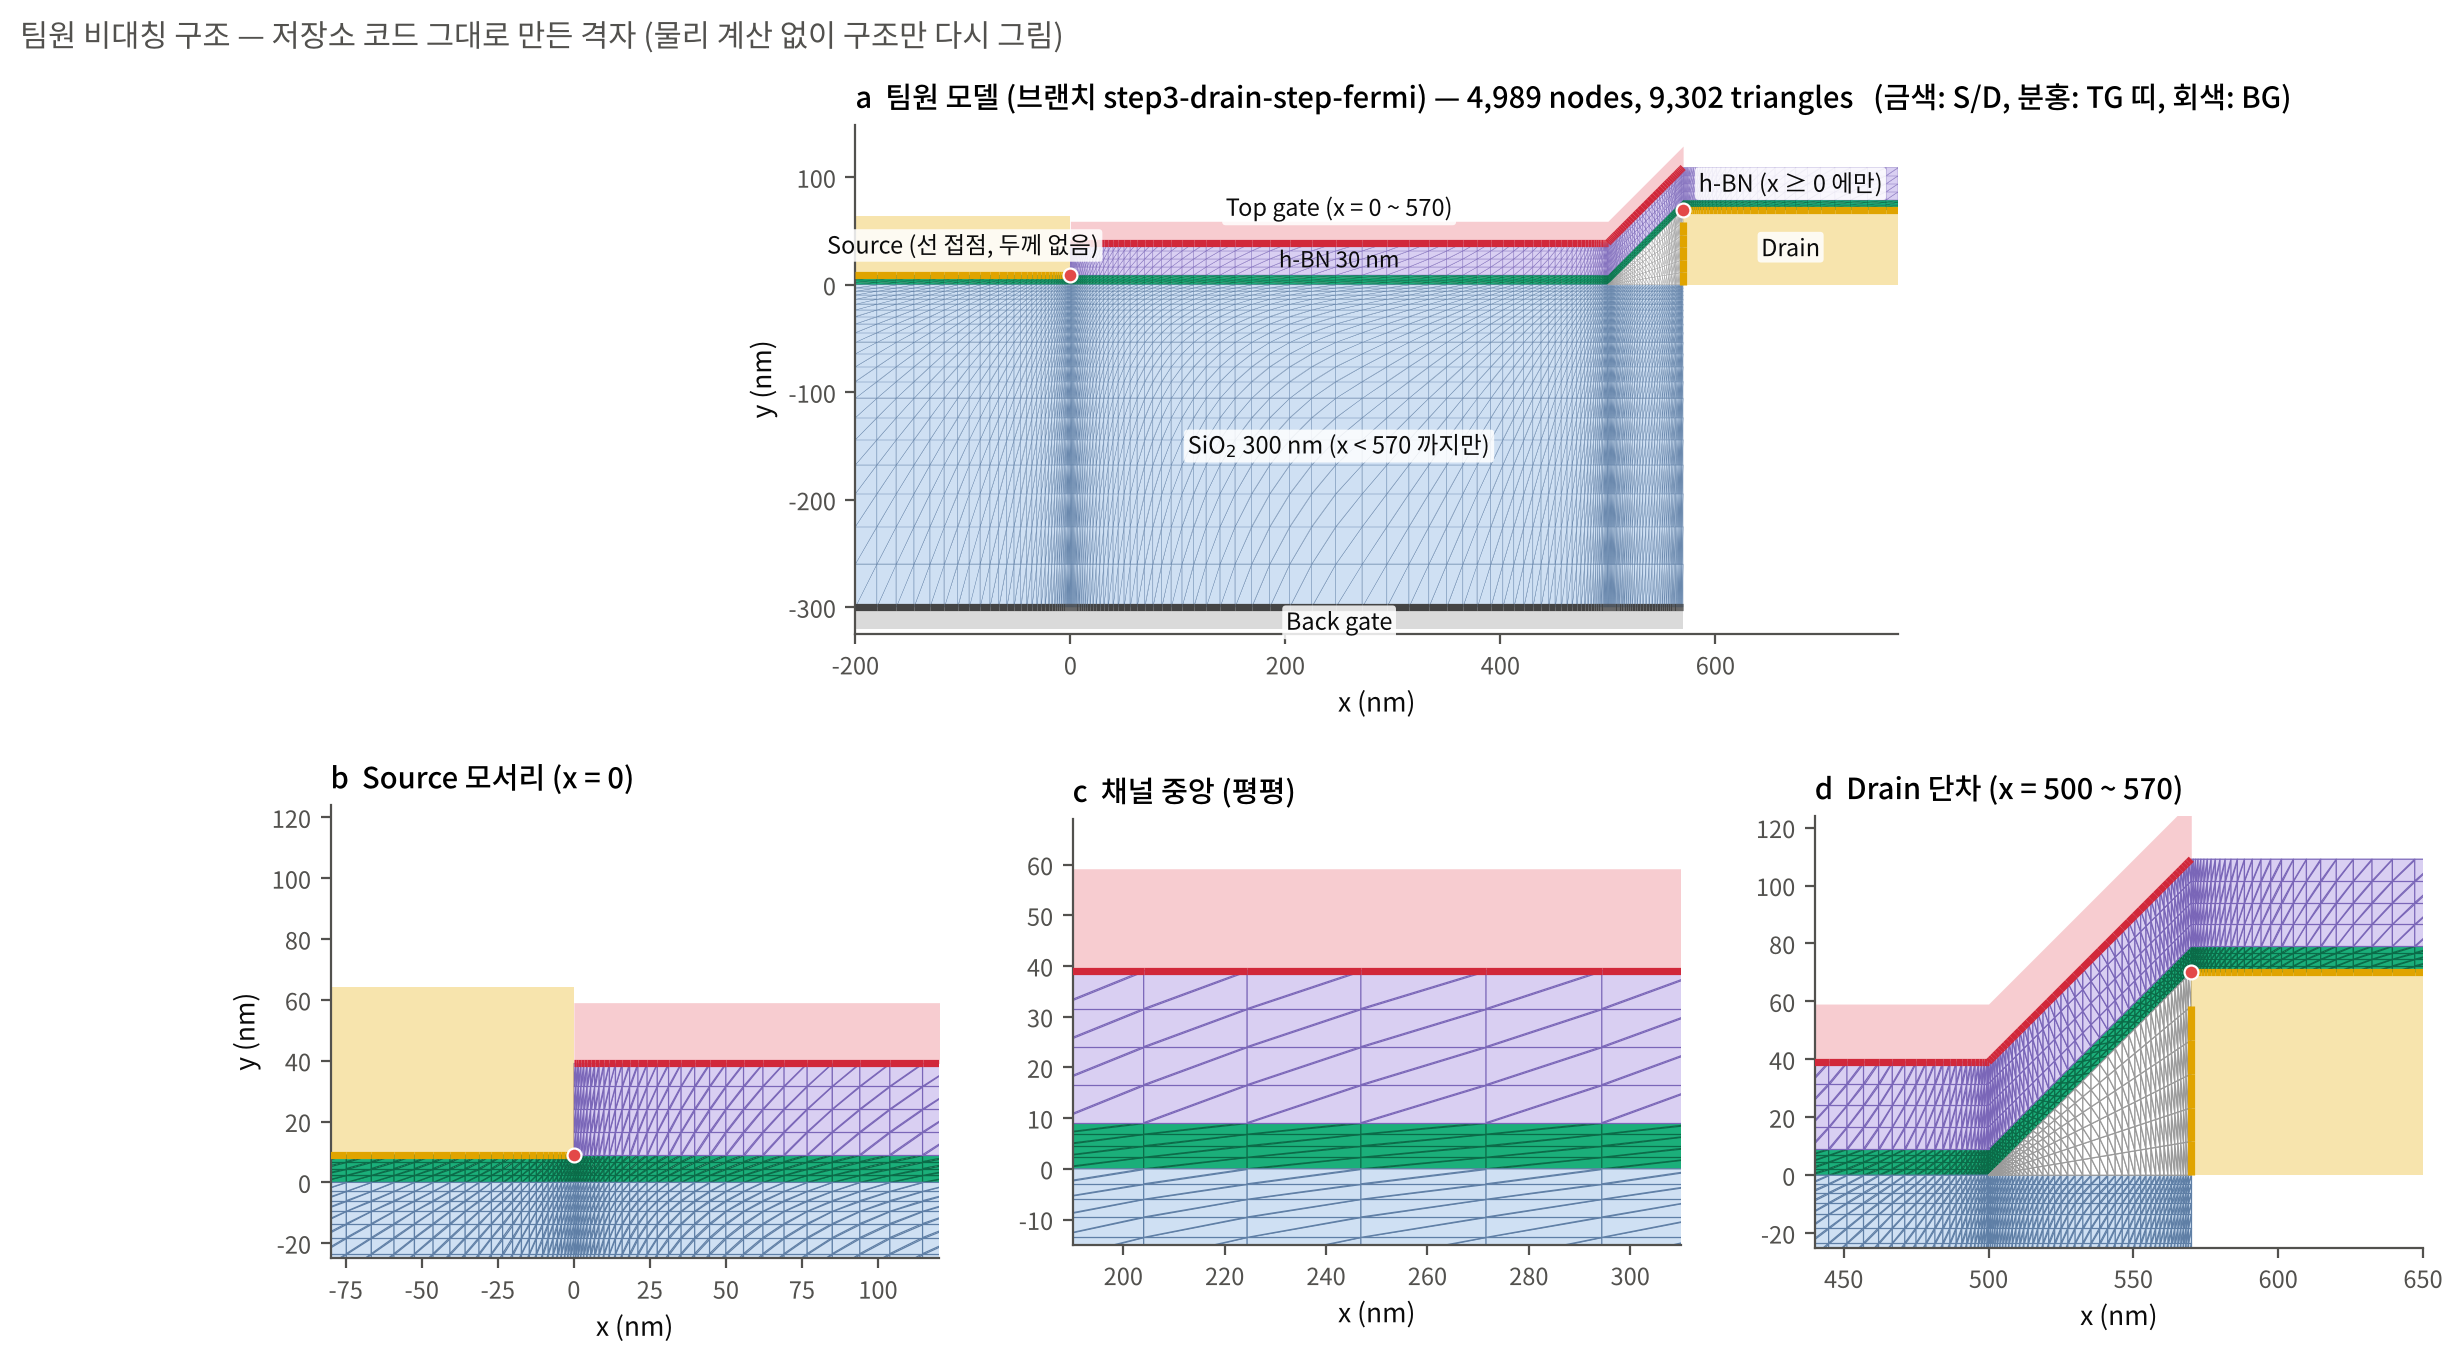
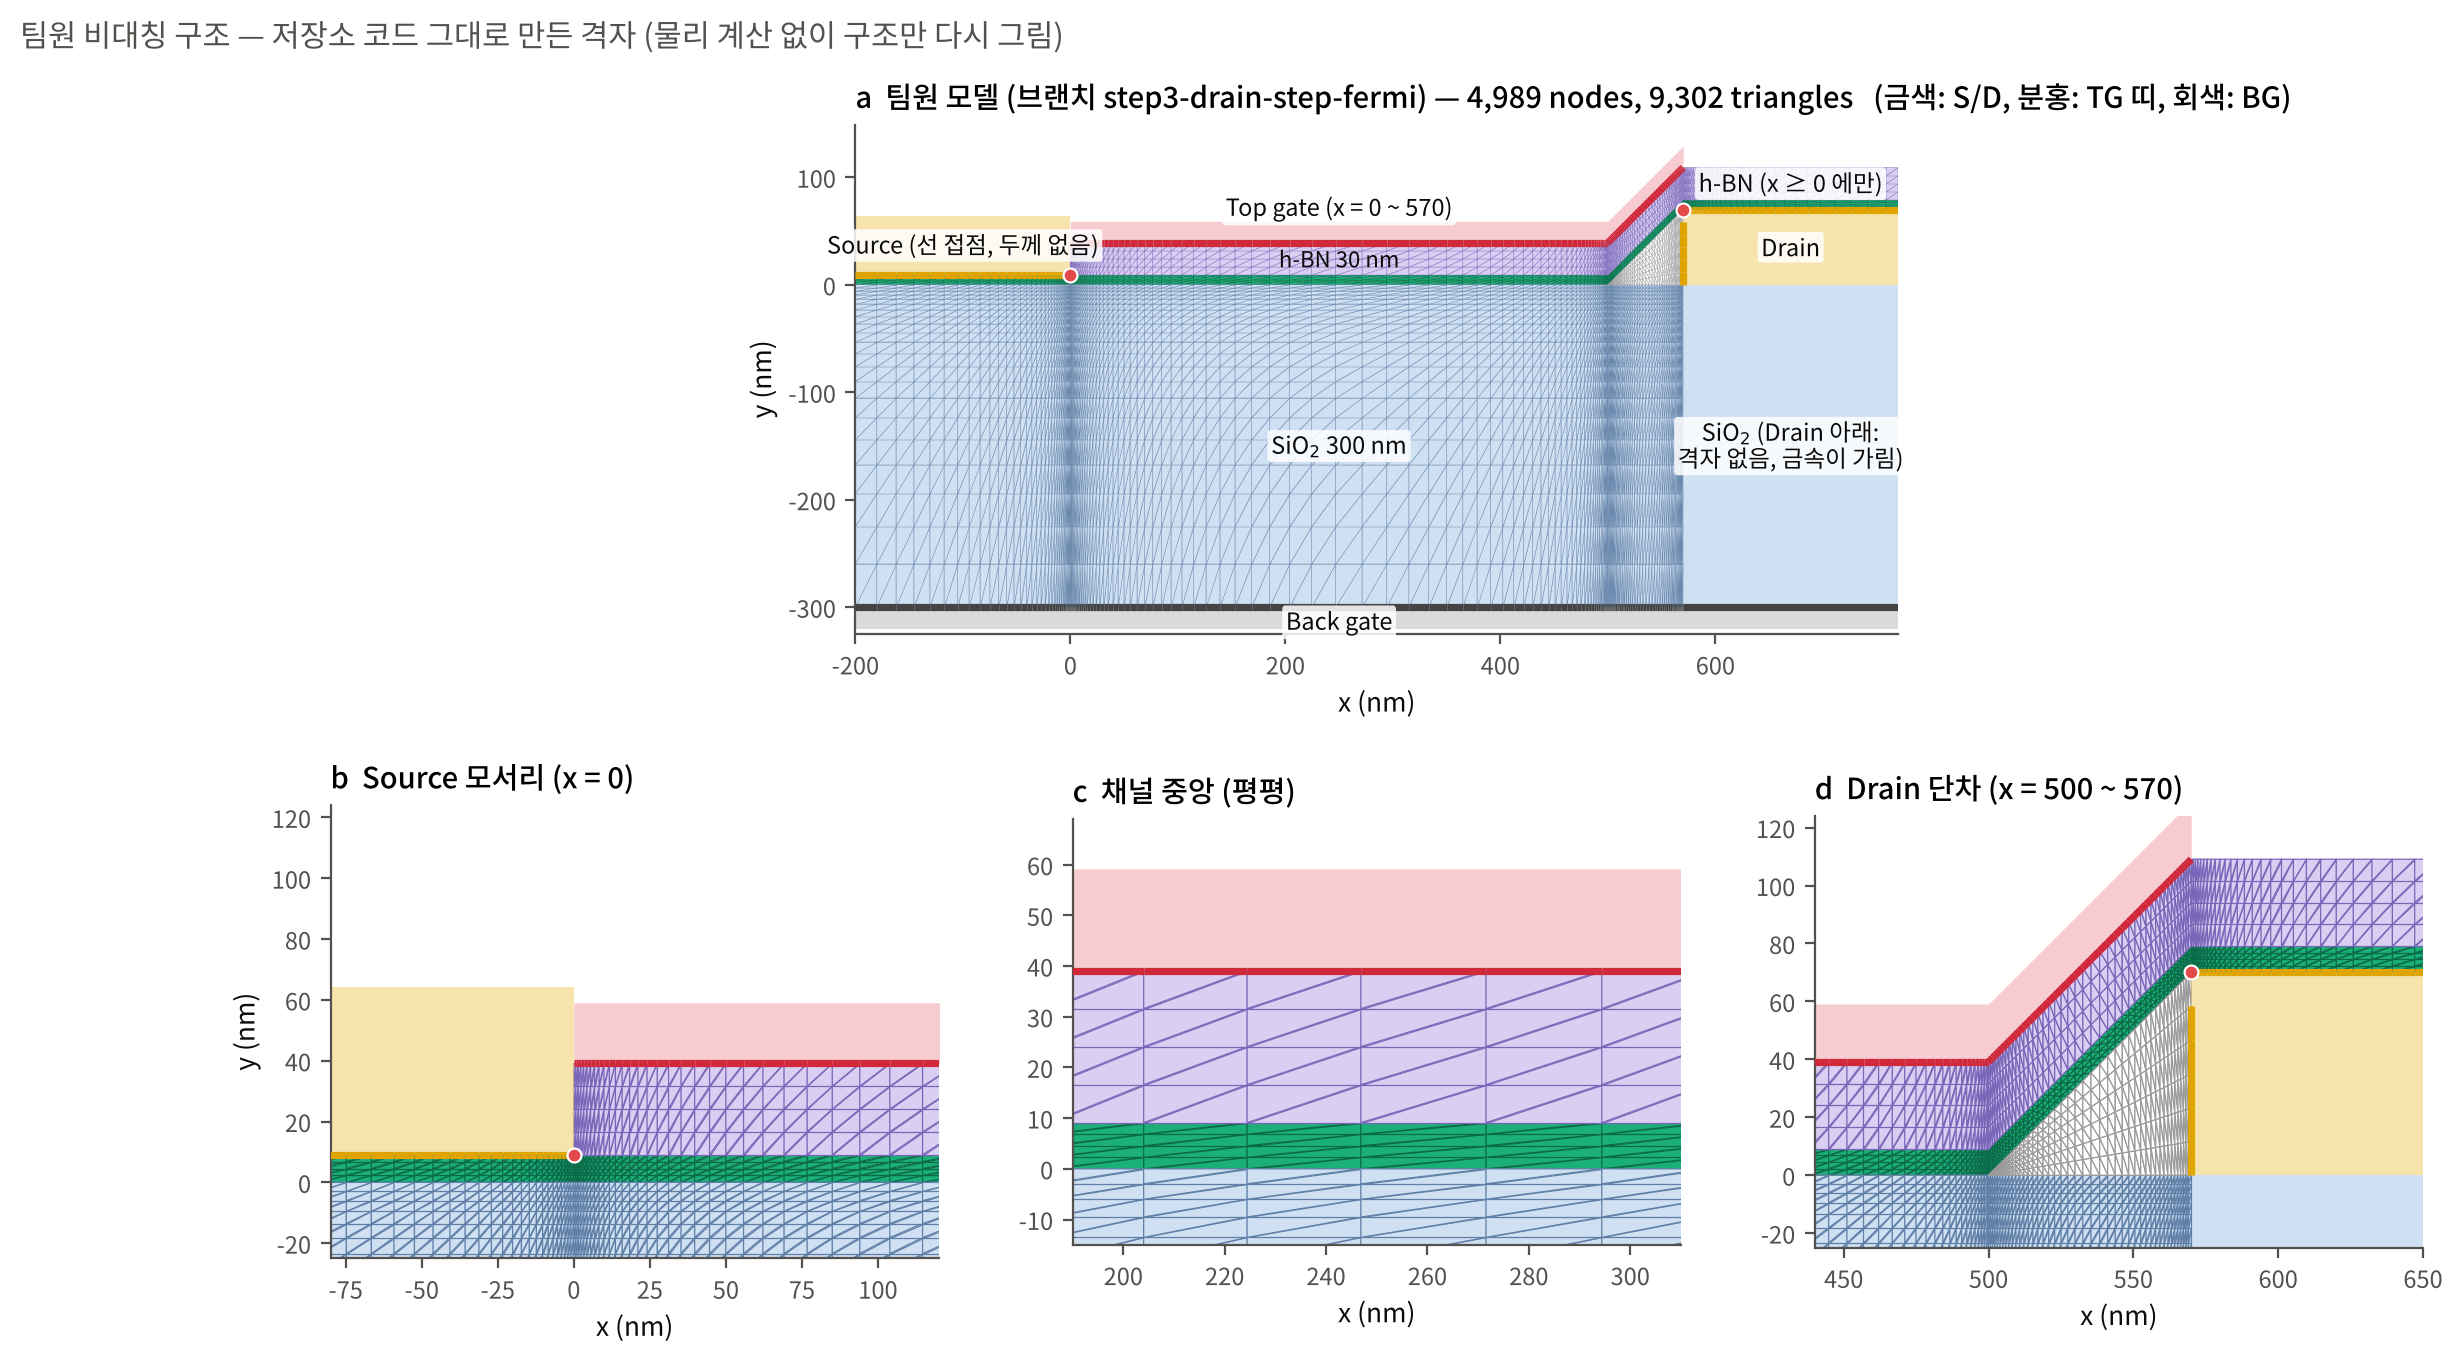
팀원 구조 그림: Drain 아래 SiO2(격자 없음) 채움

Changed region(s): [[0.6791, 0.1852, 0.7717, 0.4629], [0.8643, 0.8641, 0.9878, 0.9258], [0.463, 0.3086, 0.6174, 0.3395]]

diff --git a/src/plot_team_structure.py b/src/plot_team_structure.py
@@ -36,7 +36,11 @@ def draw(ax, lw):
     # 금속 블록 (팀원 모델은 금속 내부를 풀지 않고 경계선에 전압만 건다 — 블록은 위치 표시)
     ax.add_patch(Rectangle((-S, ts), S, T_SRC, fc="#f1cf6a", ec="none", alpha=0.55, zorder=2))
     ax.add_patch(Rectangle((xd, 0), Ld_, Hd, fc="#f1cf6a", ec="none", alpha=0.55, zorder=2))
-    ax.add_patch(Rectangle((-S, -tox - 20), S + xd, 20, fc="#bdbdbd", ec="none", alpha=0.55, zorder=2))
+    # Drain 아래 SiO2: 실제 소자에는 있지만 팀원 코드는 격자를 만들지 않음 (Drain 금속이 등전위라 BG 를 완전히 가리므로 계산에 불필요).
+    # 구조 그림에는 격자 없는 SiO2 로 채워 넣고, BG 도 끝까지 그린다.
+    ax.add_patch(Rectangle((xd, -tox), Ld_, tox, fc=FACE["oxide"], ec="none", zorder=0.5))
+    ax.add_patch(Rectangle((-S, -tox - 20), S + xd + Ld_, 20, fc="#bdbdbd", ec="none", alpha=0.55, zorder=2))
+    ax.plot([xd, xd + Ld_], [-tox, -tox], color=CCOL["bg"], lw=2.6, solid_capstyle="butt", zorder=4)
     for gname, a, b in edges:
         if gname in CCOL:
             ax.plot(*P[[a, b]].T, color=CCOL[gname], lw=2.6, solid_capstyle="butt", zorder=4)
@@ -53,7 +57,7 @@ ax0 = fig.add_subplot(gs[0, :]); draw(ax0, 0.15)
 ax0.set_xlim(-S, xd + Ld_); ax0.set_ylim(-tox - 25, Hd + ts + th + 40)
 kw = dict(fontsize=8.5, ha="center", va="center", color=st.INK, zorder=6, bbox=dict(boxstyle="round,pad=0.15", fc="white", ec="none", alpha=0.85))
 ax0.text(-S / 2, ts + T_SRC / 2, "Source (선 접점, 두께 없음)", **kw); ax0.text(xd + Ld_ / 2, Hd / 2, "Drain", **kw)
-ax0.text(L / 2, ts + th + 32, "Top gate (x = 0 ~ 570)", **kw); ax0.text(L / 2, -tox / 2, "SiO$_2$ 300 nm (x < 570 까지만)", **kw)
+ax0.text(L / 2, ts + th + 32, "Top gate (x = 0 ~ 570)", **kw); ax0.text(L / 2, -tox / 2, "SiO$_2$ 300 nm", **kw); ax0.text(xd + Ld_ / 2, -tox / 2, "SiO$_2$ (Drain 아래:\n격자 없음, 금속이 가림)", **kw)
 ax0.text(L / 2, -tox - 14, "Back gate", **kw); ax0.text(xd + Ld_ / 2, Hd + ts + th / 2, "h-BN (x ≥ 0 에만)", **kw)
 ax0.text(L / 2, ts + th / 2, "h-BN 30 nm", fontsize=8, ha="center", va="center", color=st.INK, zorder=6)
 ax0.set_xlabel("x (nm)"); ax0.set_ylabel("y (nm)")
